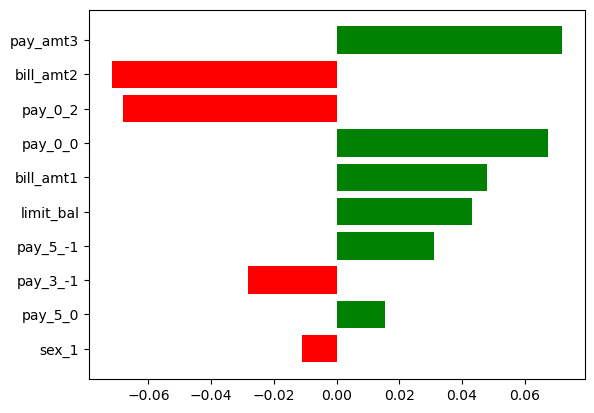
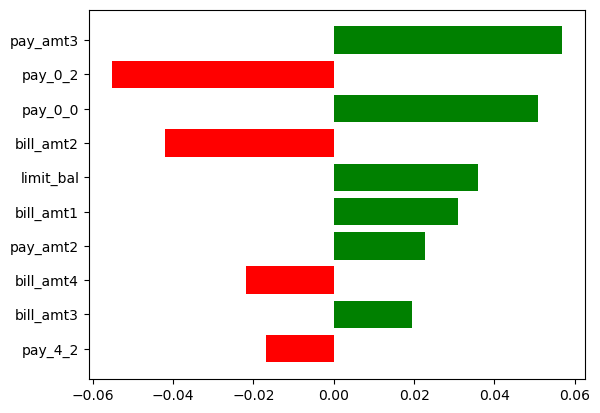
added sample method for trans and updated perf class

diff --git a/auto_ml_validation/validation_package/evaluation/performance_metrics_evaluator.py b/auto_ml_validation/validation_package/evaluation/performance_metrics_evaluator.py
@@ -4,7 +4,6 @@ import sklearn.metrics as skl
 import numpy as np
 import plotly.express as px
 import scikitplot as skp
-from sklearn.inspection import PartialDependenceDisplay
 from sklearn.metrics import confusion_matrix, ConfusionMatrixDisplay
 from sklearn.base import BaseEstimator
 
@@ -19,6 +18,15 @@ class PerformanceEvaluator:
         X: pd.DataFrame,
         model: BaseEstimator
     ):
+        """
+        Evaluate generic model performance
+        Input:
+            - proba: predicted probability for both classes on testing dataset
+            - threshold: classification threshold
+            - y_true: true lable of testing dataset
+            - X: processed features
+            - model: the machine learning model used for generating prediction
+        """
         self.proba = proba
         self.positive_proba = proba[:, 1]
         self.threshold = threshold
@@ -28,6 +36,7 @@ class PerformanceEvaluator:
         self.model = model
 
     def get_pred(self):
+        """Get predicted label based on proba and threshold"""
         return np.array([1 if x > self.threshold else 0 for x in self.positive_proba])
 
     def get_dist_plot(self):
@@ -51,7 +60,7 @@ class PerformanceEvaluator:
         }
 
     def get_roc_curve(self):
-        fpr, tpr, thresholds = skl.roc_curve(self.y_true, self.positive_proba)
+        fpr, tpr, thres = skl.roc_curve(self.y_true, self.positive_proba)
         fig = px.area(
             x=fpr, y=tpr,
             title='ROC Curve',
@@ -80,7 +89,7 @@ class PerformanceEvaluator:
             "ROCAUC": skl.roc_auc_score(self.y_true, self.positive_proba),
             "PRAUC": skl.auc(recall, precision)
         }
-
+    
     def get_lift_chart(self):
         return skp.metrics.plot_lift_curve(self.y_true, self.proba)
 

diff --git a/auto_ml_validation/validation_package/evaluation/transparency_metrics_evaluator.py b/auto_ml_validation/validation_package/evaluation/transparency_metrics_evaluator.py
@@ -26,20 +26,24 @@ class TransparencyMetricsEvaluator:
             X (pandas.DataFrame): The input data for the machine learning model.
             class_name_list (list, optional): A list of class names. Defaults to None.
         """
+        sample_X = X.sample(n=int(X.shape[0]/100))
+
         self.model = model
-        self.X = X.iloc[:2500]
+        self.X = sample_X
         self.class_name_list = class_name_list
+
+
         
         # Initialize the LIME explainer
         self.lime_explainer = LimeTabularExplainer(
-            X.values,
-            feature_names=X.columns,
+            sample_X.values,
+            feature_names=sample_X.columns,
             discretize_continuous=False,
             class_names=[class_name_list] if class_name_list is not None else None
         )
         
         # Initialize the SHAP explainer
-        self.shap_explainer = shap.Explainer(model.predict, X)
+        self.shap_explainer = shap.Explainer(model.predict, sample_X)
     
     def lime_interpretability(self):
         """

diff --git a/auto_ml_validation/app/pages/results.py b/auto_ml_validation/app/pages/results.py
@@ -204,10 +204,15 @@ def trans_layout(train_data:pd.DataFrame,
     global_shap_fig.savefig('././auto_ml_validation/app/assets/images/global_shap.png', bbox_inches='tight')
 
     # return html.Img(src='././app/assets/images/local_shap.jpeg')
-    return html.Div([
+    return html.Div(
+        style={'backgroundColor': '#d7d7d7', 'width': '95%', 'margin': 'auto'}, children=[
+        html.H4('Local Lime Plot', style={'textAlign': 'center', 'fontWeight': 'bold'}),
         html.Img(src=app.get_asset_url("images/local_lime.png")),
+        html.H4('Global Lime Plot', style={'textAlign': 'center', 'fontWeight': 'bold'}),
         html.Img(src=app.get_asset_url("images/global_lime.png")),
+        html.H4('Local Shap Plot', style={'textAlign': 'center', 'fontWeight': 'bold'}),
         html.Img(src=app.get_asset_url("images/local_shap.png")),
+        html.H4('Global Shap Plot', style={'textAlign': 'center', 'fontWeight': 'bold'}),
         html.Img(src=app.get_asset_url("images/global_shap.png")),
         ])
 
